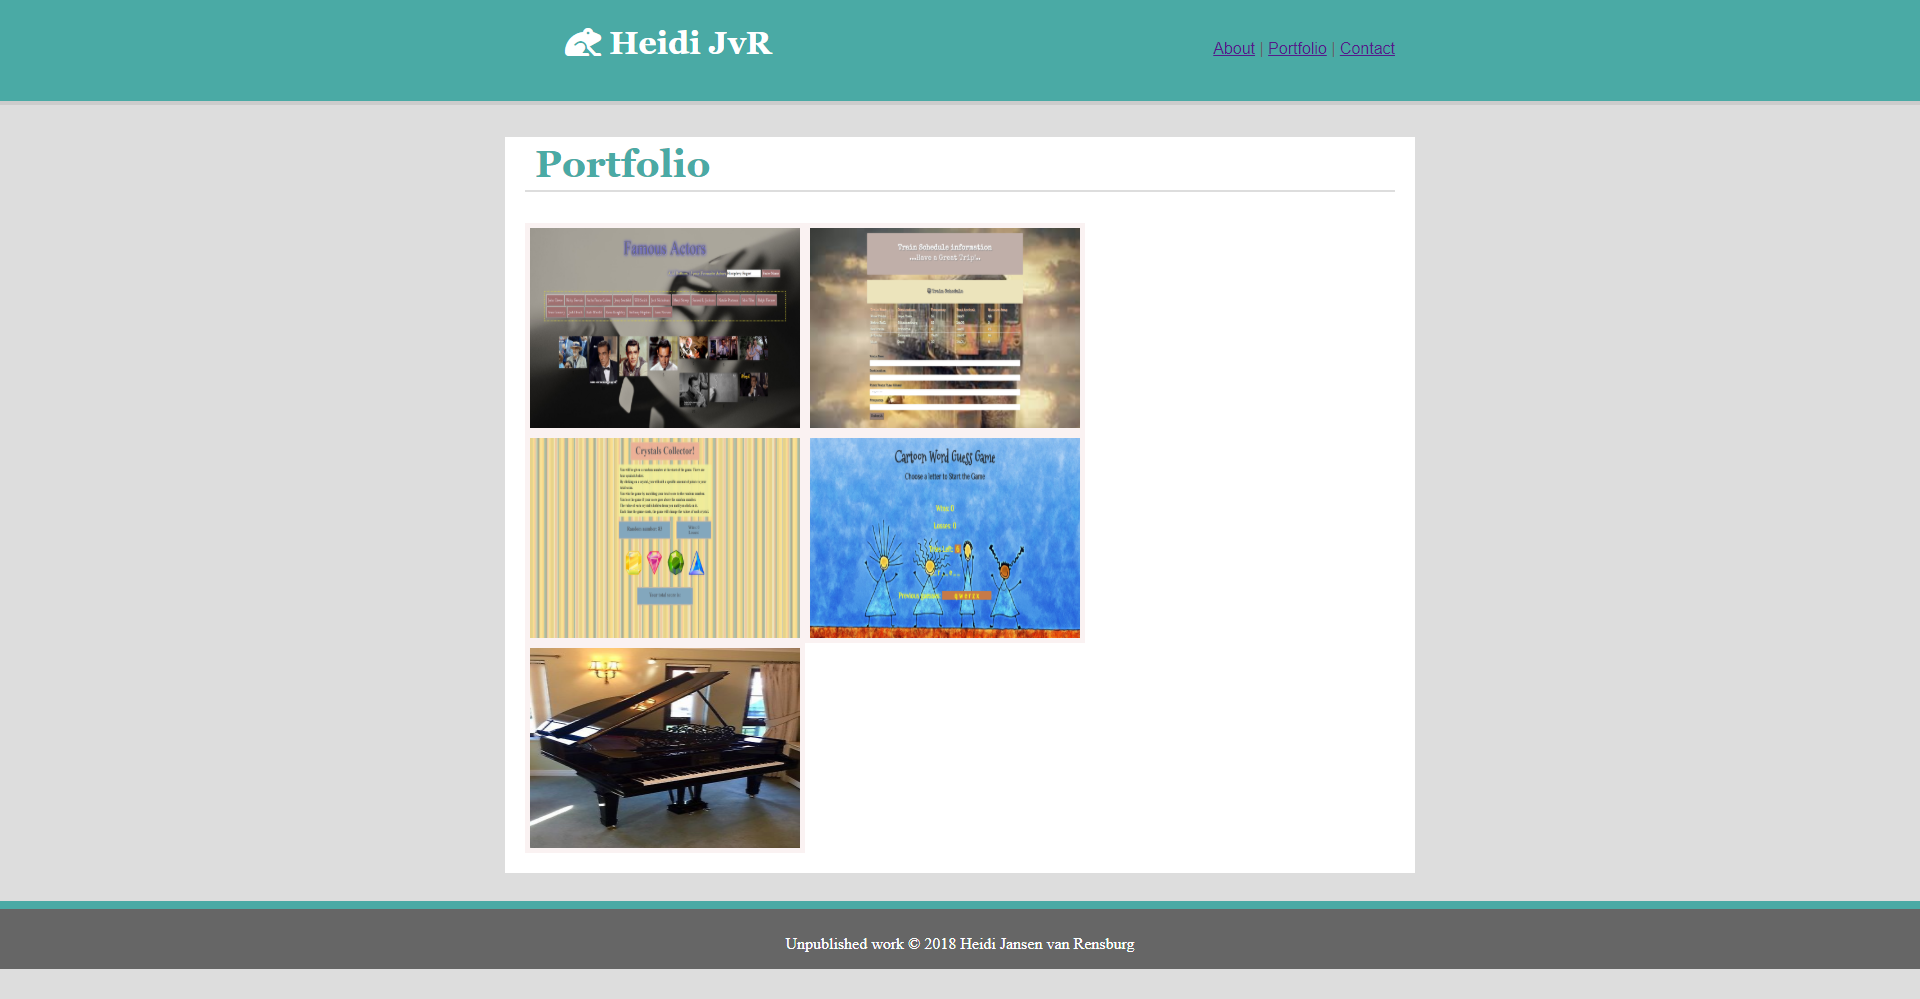
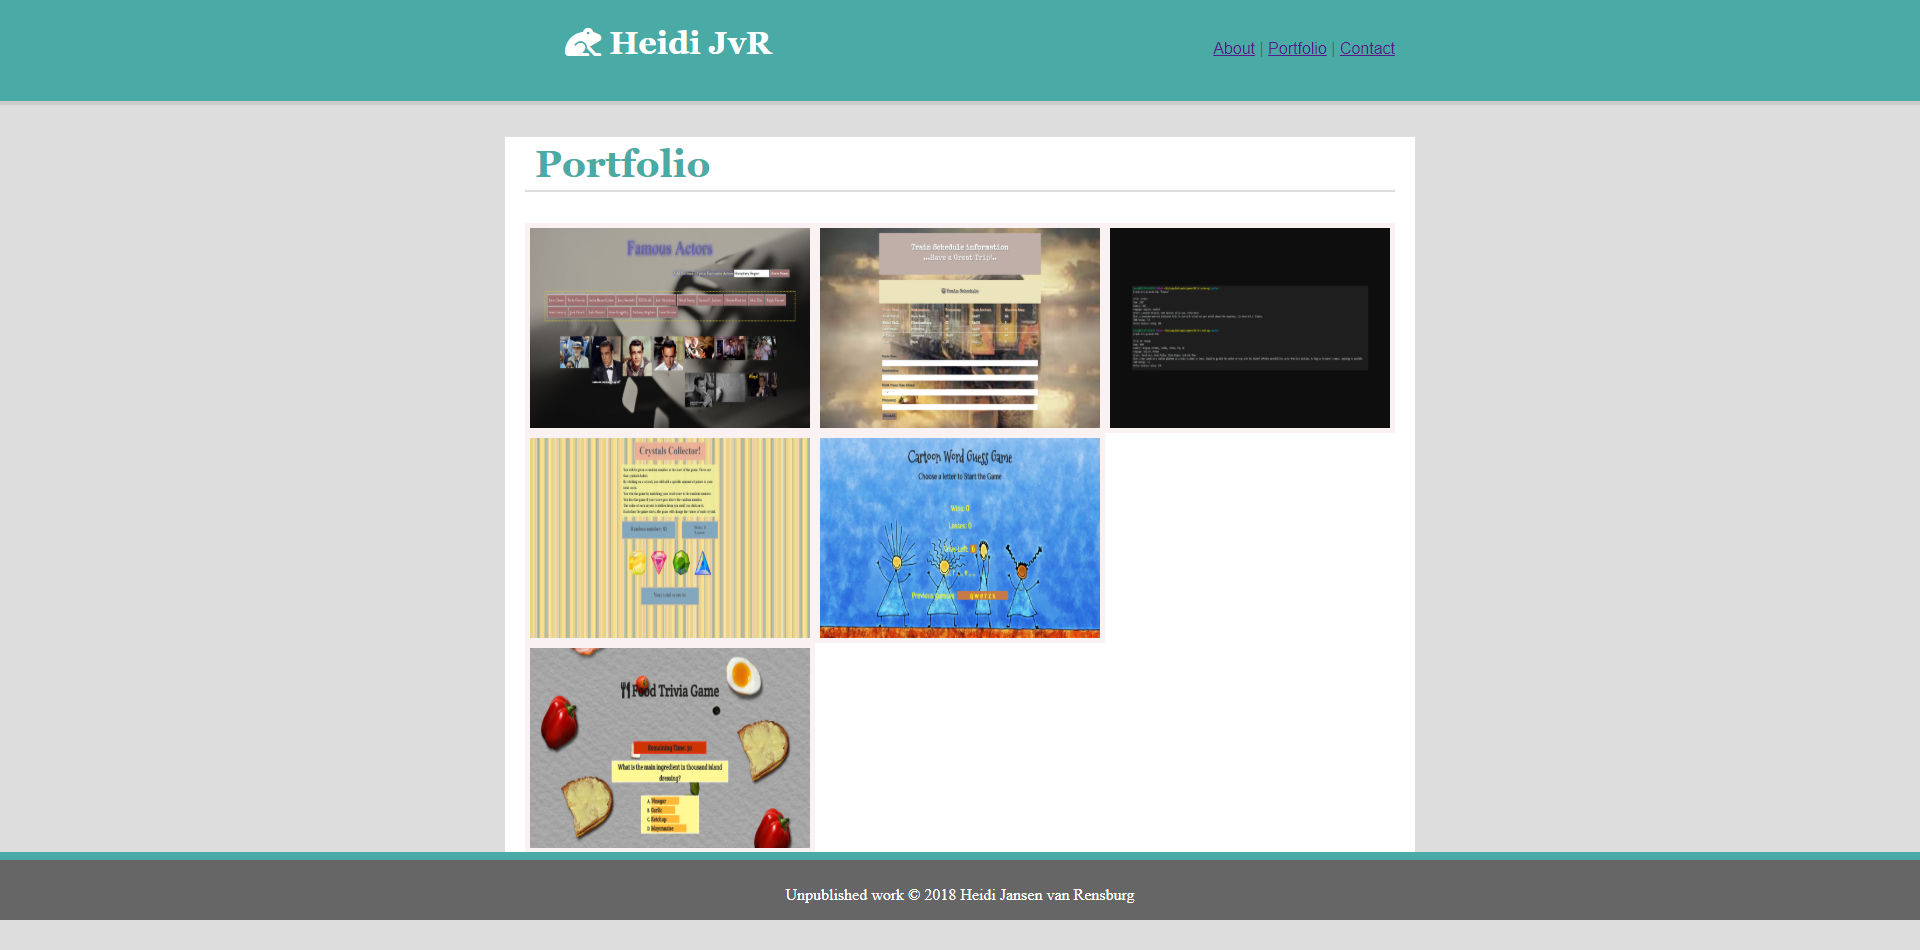
new images

Changed region(s): [[0.0, 0.0916, 1.0, 0.9768], [0.2812, 0.0305, 0.4062, 0.0611], [0.625, 0.0305, 0.7188, 0.0611]]

diff --git a/portfolio.html b/portfolio.html
@@ -35,29 +35,36 @@
                     <div class="row justify-content-start">
                         <div class="col-sm-4">
                             <a href = "https://github.com/Heidijvr/GifTastic" target="GiphyGame">
-                            <img src="assets/images/giphy.screenshot.png" alt="GiphyGame" height="200" width="270" class="images"></a>                               <!-- <img src="https://heidijvr.github.io/Train-Scheduler/assets/images/trainScheduler.png" alt="Train Scheduler"> -->                                  
+                            <img src="assets/images/giphy.screenshot.png" alt="GiphyGame" height="200" width="280" class="images"></a>                               <!-- <img src="https://heidijvr.github.io/Train-Scheduler/assets/images/trainScheduler.png" alt="Train Scheduler"> -->                                  
                         </div>                                                               
                         <div class="col-sm-4">
                             <a href = "https://github.com/Heidijvr/Train-Scheduler" target="Train Scheduler">
-                            <img src="assets/images/trainScheduler.png" alt="Train-Scheduler" height="200" width="270" class="images"></a> 
+                            <img src="assets/images/trainScheduler.png" alt="Train-Scheduler" height="200" width="280" class="images"></a> 
+                        </div>    
+                    
+                        <div class="col-sm-4">
+                            <a href = "https://github.com/Heidijvr/liri-node-app" target="Liri-Bot">
+                            <img src="assets/images/movie.this.screenshot.png" alt="Liri-Bot" height="200" width="280" class="images"></a> 
                         </div>    
                     </div>                                 
+              
+
                 
                     <div class="row justify-content-start">       
                         <div class="col-sm-4">
                             <a href = "https://github.com/Heidijvr/Crystals-Collector-unit-4-game" target="Crystals Collector">
-                            <img src="assets/images/Crystals-Collector.png" alt="Crystals Collector" height="200" width="270" class="images"></a> 
+                            <img src="assets/images/Crystals-Collector.png" alt="Crystals Collector" height="200" width="280" class="images"></a> 
                         </div>
                         <div class="col-sm-4">
                             <a href = "https://github.com/Heidijvr/Word-Guess-Game" target="Cartoon Word Guess Game">
-                            <img src="assets/images/cartoon.word.game.png" alt="Cartoon Word Guess Game" height="200" width="270" class="images"></a> 
+                            <img src="assets/images/cartoon.word.game.png" alt="Cartoon Word Guess Game" height="200" width="280" class="images"></a> 
                         </div>
                     </div>
 
                     <div class="row justify-content-start">
                         <div class="col-sm-4">
                             <a href = "https://github.com/Heidijvr/Trivia-Game" target="Food Trivia Game">  
-                            <img src="assets/images/screencaptureTrivia.png" alt="Trivia Game" height="200" width="270" class="images"></a>                              
+                            <img src="assets/images/screencaptureTrivia.png" alt="Trivia Game" height="200" width="280" class="images"></a>                              
                         </div>                        
                     </div>   
             </div>        
